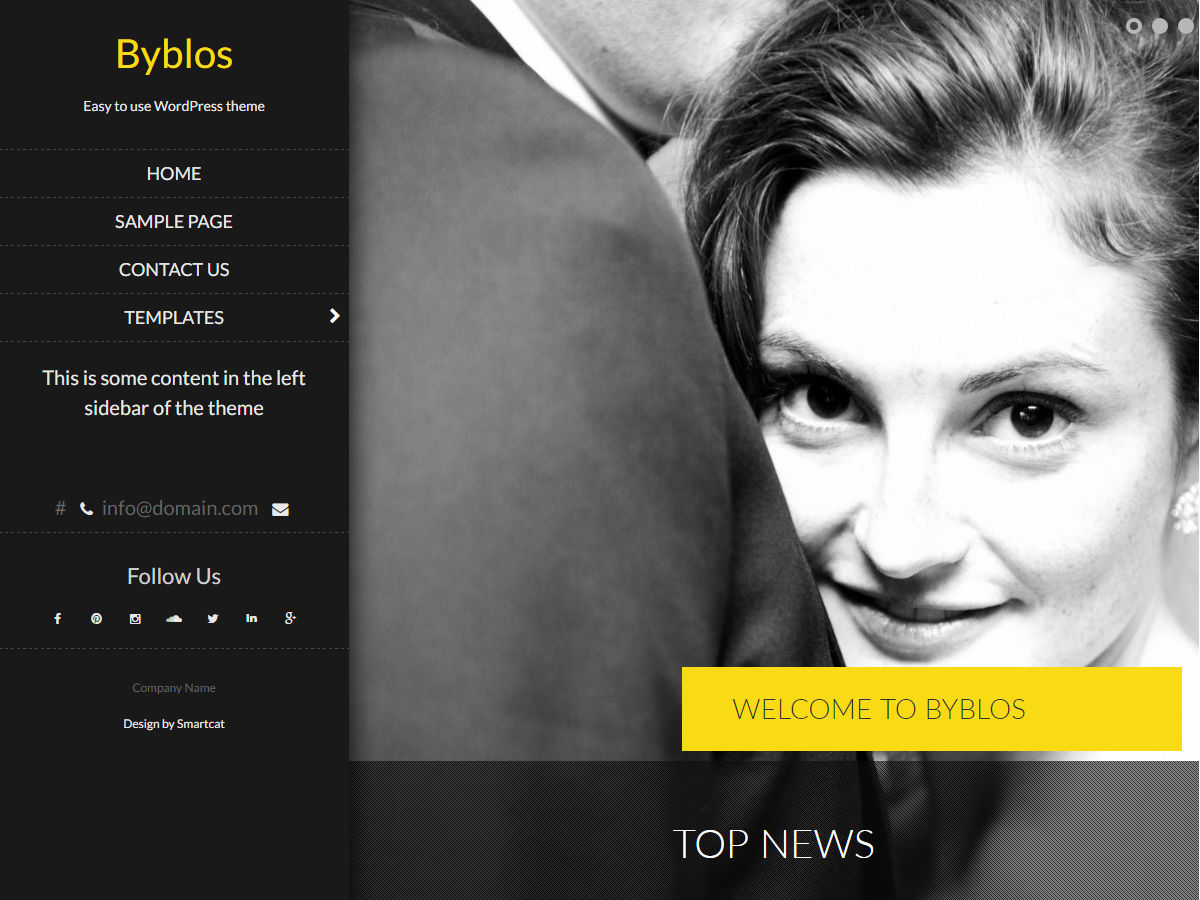
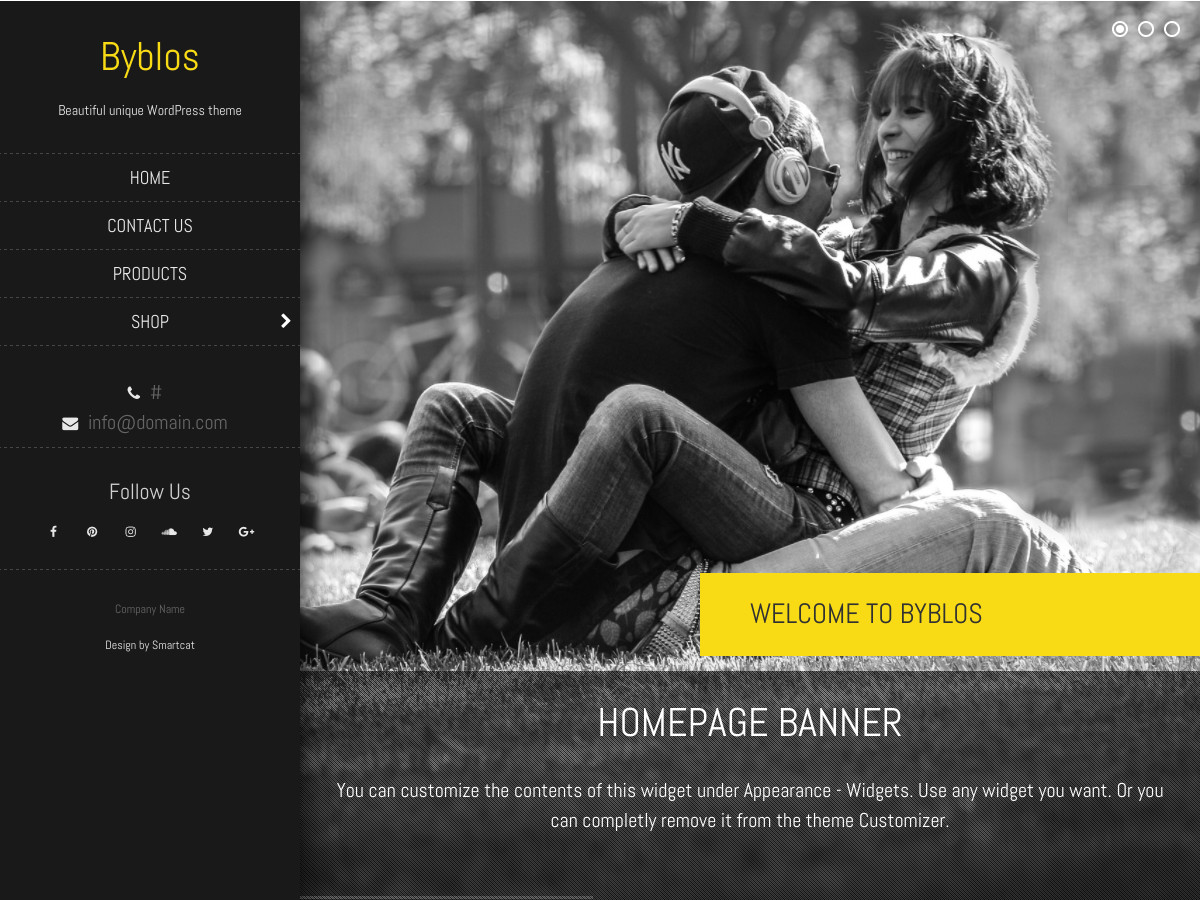
updated default slider images, adjusted vertical menu width

diff --git a/inc/css/style.css b/inc/css/style.css
@@ -810,8 +810,8 @@ input[type="submit"] {
 }
 
 .site-branding{
-    /*margin-top: 75px;*/
-    width: 350px;
+    
+    width: 300px;
     height: 100%;
     position: fixed;
     top: 0;
@@ -1458,7 +1458,7 @@ article{
     /*padding-top: 30px;*/
 }
 .site-content-wrapper{
-    margin-left: 350px;
+    margin-left: 300px;
     background: rgb(245,245,245);
 }
 .site-content-wrapper .page-content{

diff --git a/inc/customizer.php b/inc/customizer.php
@@ -17,15 +17,15 @@ function byblos_get_options() {
         'sc_instagram_url'      => '#',
         'sc_pinterest_url'      => '#',
         'sc_soundcloud_url'     => '#',
-        'sc_theme_color'        => 'red',
+        'sc_theme_color'        => 'yellow',
         'sc_font_size'          => '20px',
         'sc_font_family'        => 'Abel, sans-serif',
         'sc_slider_bool'        => 'yes',
-        'sc_slide1_image'       => get_template_directory_uri() . '/inc/images/bride.jpg',
+        'sc_slide1_image'       => get_template_directory_uri() . '/inc/images/dress.jpg',
         'sc_slide1_text'        => __( 'Welcome to Byblos', 'byblos' ),
-        'sc_slide2_image'       => get_template_directory_uri() . '/inc/images/bride.jpg',
+        'sc_slide2_image'       => get_template_directory_uri() . '/inc/images/couple.jpg',
         'sc_slide2_text'        => __( 'Responsive WordPress theme', 'byblos' ),
-        'sc_slide3_image'       => get_template_directory_uri() . '/inc/images/bride.jpg',
+        'sc_slide3_image'       => get_template_directory_uri() . '/inc/images/guitarist.jpg',
         'sc_slide3_text'        => __( 'Featuring a fullscreen responsive slider', 'byblos' ),
         'sc_banner_bool'        => 'yes',
         'sc_cta_bool'           => 'yes',
@@ -33,17 +33,17 @@ function byblos_get_options() {
         'sc_cta1_text'          => __( 'Byblos is a reponsive theme that looks great on desktop, tablet and mobile', 'byblos' ),
         'sc_cta1_url'           => '#',
         'sc_cta1_button'           => __('Learn More', 'byblos' ),
-        'sc_box1_image'         => get_template_directory_uri() . '/inc/images/bride.jpg',
+        'sc_box1_image'         => get_template_directory_uri() . '/inc/images/guitarist.jpg',
         'sc_cta2_title'         => __( 'Appealing', 'byblos' ),
         'sc_cta2_text'          => __( 'Byblos is a reponsive theme that looks great on desktop, tablet and mobile', 'byblos' ),
         'sc_cta2_url'           => '#',
         'sc_cta2_button'           => __('Learn More', 'byblos' ),
-        'sc_box2_image'         => get_template_directory_uri() . '/inc/images/bride.jpg',
+        'sc_box2_image'         => get_template_directory_uri() . '/inc/images/guitarist.jpg',
         'sc_cta3_title'         => __( 'Customizable', 'byblos' ),
         'sc_cta3_text'          => __( 'Byblos is a reponsive theme that looks great on desktop, tablet and mobile', 'byblos' ),
         'sc_cta3_url'           => '#',
         'sc_cta3_button'           => __('Learn More', 'byblos' ),
-        'sc_box3_image'         => get_template_directory_uri() . '/inc/images/bride.jpg',
+        'sc_box3_image'         => get_template_directory_uri() . '/inc/images/guitarist.jpg',
         'sc_footer_text'        => __( 'Company Name', 'byblos' ),
         'sc_cta_section_title'  => __( 'Our Specialities', 'byblos' ),
         'phone'                 => '#',
@@ -276,7 +276,7 @@ function byblos_customize_register($wp_customize) {
 
     // 1st slide
     $wp_customize->add_setting('byblos[sc_slide1_image]', array(
-        'default' => get_template_directory_uri() . '/inc/images/bride.jpg',
+        'default' => get_template_directory_uri() . '/inc/images/guitarist.jpg',
         'transport' => 'refresh',
         'type'  => 'option',
         'sanitize_callback' => 'byblos_text_sanitize'
@@ -307,7 +307,7 @@ function byblos_customize_register($wp_customize) {
 
     // 2nd slide
     $wp_customize->add_setting('byblos[sc_slide2_image]', array(
-        'default' => get_template_directory_uri() . '/inc/images/bride.jpg',
+        'default' => get_template_directory_uri() . '/inc/images/guitarist.jpg',
         'transport' => 'refresh',
         'type'  => 'option',
         'sanitize_callback' => 'byblos_text_sanitize'
@@ -337,7 +337,7 @@ function byblos_customize_register($wp_customize) {
 
     // 3rd slide
     $wp_customize->add_setting('byblos[sc_slide3_image]', array(
-        'default' => get_template_directory_uri() . '/inc/images/bride.jpg',
+        'default' => get_template_directory_uri() . '/inc/images/guitarist.jpg',
         'transport' => 'refresh',
         'type'  => 'option',
         'sanitize_callback' => 'byblos_text_sanitize'
@@ -471,7 +471,7 @@ function byblos_customize_register($wp_customize) {
     // Callout #1
     // Image
     $wp_customize->add_setting('byblos[sc_box1_image]', array(
-        'default' => get_template_directory_uri() . '/inc/images/bride.jpg',
+        'default' => get_template_directory_uri() . '/inc/images/guitarist.jpg',
         'transport' => 'refresh',
         'type'  => 'option',
         'sanitize_callback' => 'byblos_text_sanitize'
@@ -548,7 +548,7 @@ function byblos_customize_register($wp_customize) {
     // Callout #2
     // Image
     $wp_customize->add_setting('byblos[sc_box2_image]', array(
-        'default' => get_template_directory_uri() . '/inc/images/bride.jpg',
+        'default' => get_template_directory_uri() . '/inc/images/guitarist.jpg',
         'transport' => 'refresh',
         'type'  => 'option',
         'sanitize_callback' => 'byblos_text_sanitize'
@@ -625,7 +625,7 @@ function byblos_customize_register($wp_customize) {
     // Callout #3
     // Image
     $wp_customize->add_setting('byblos[sc_box3_image]', array(
-        'default' => get_template_directory_uri() . '/inc/images/bride.jpg',
+        'default' => get_template_directory_uri() . '/inc/images/guitarist.jpg',
         'transport' => 'refresh',
         'type'  => 'option',
         'sanitize_callback' => 'byblos_text_sanitize'
